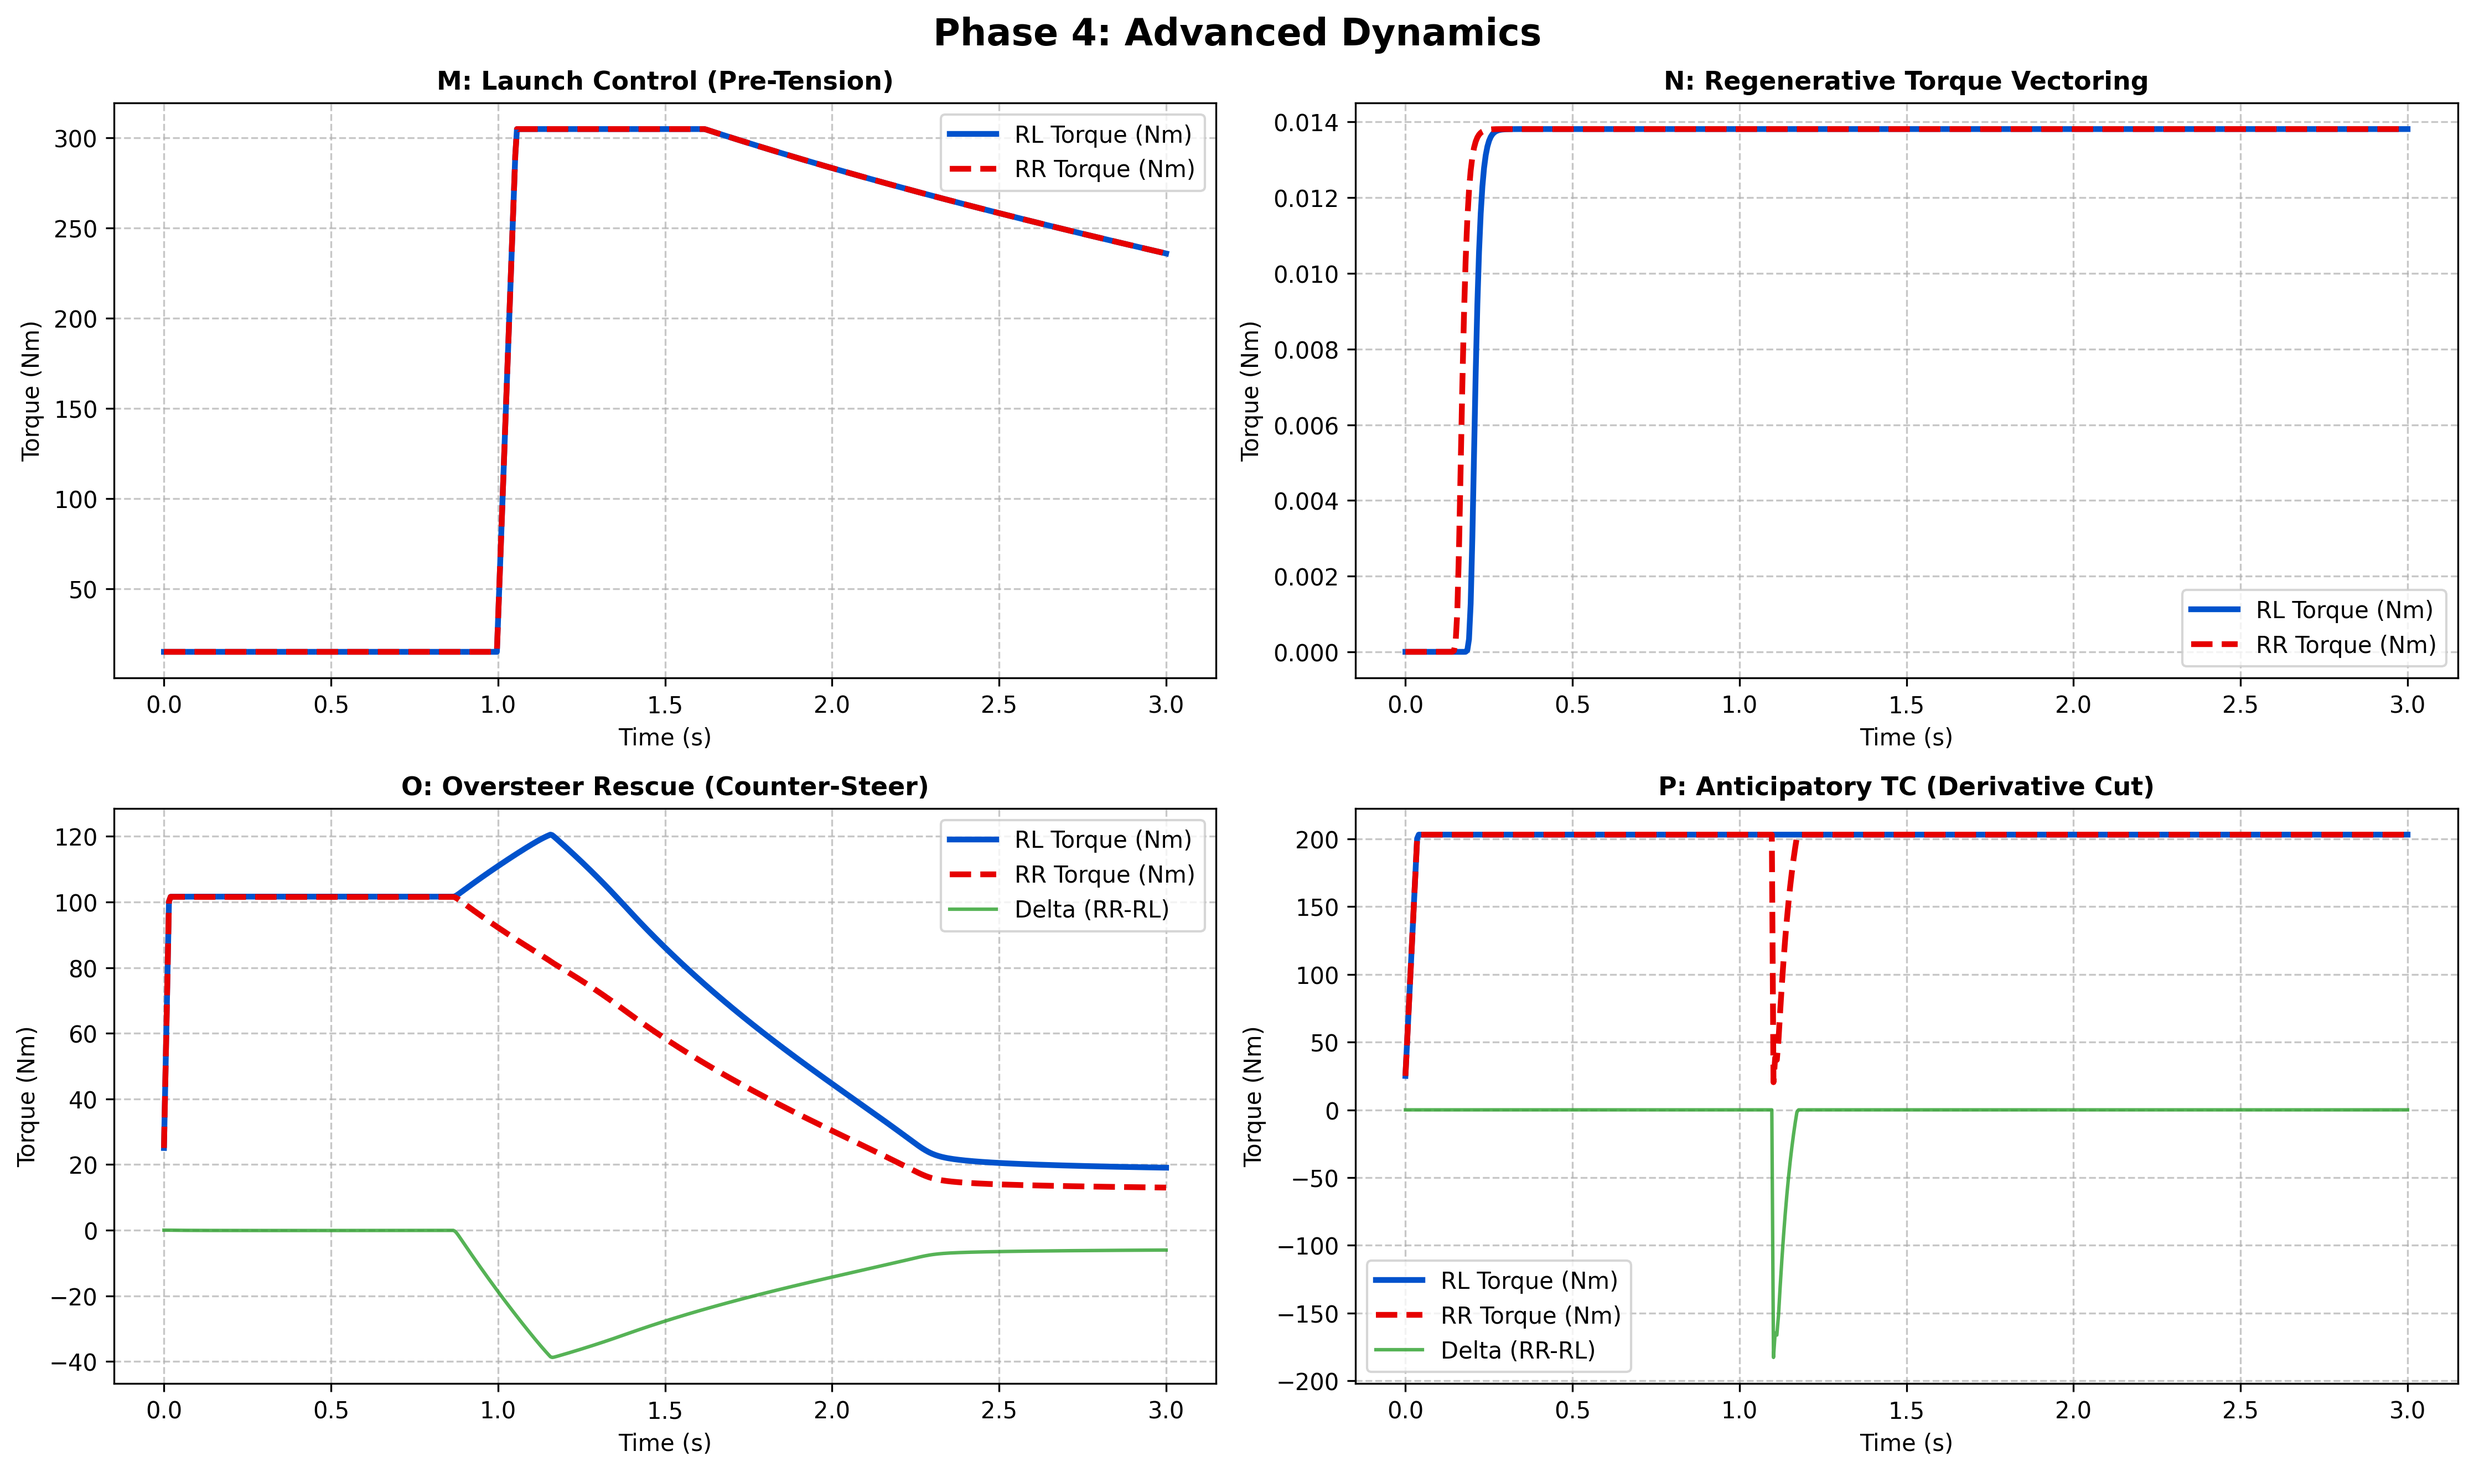
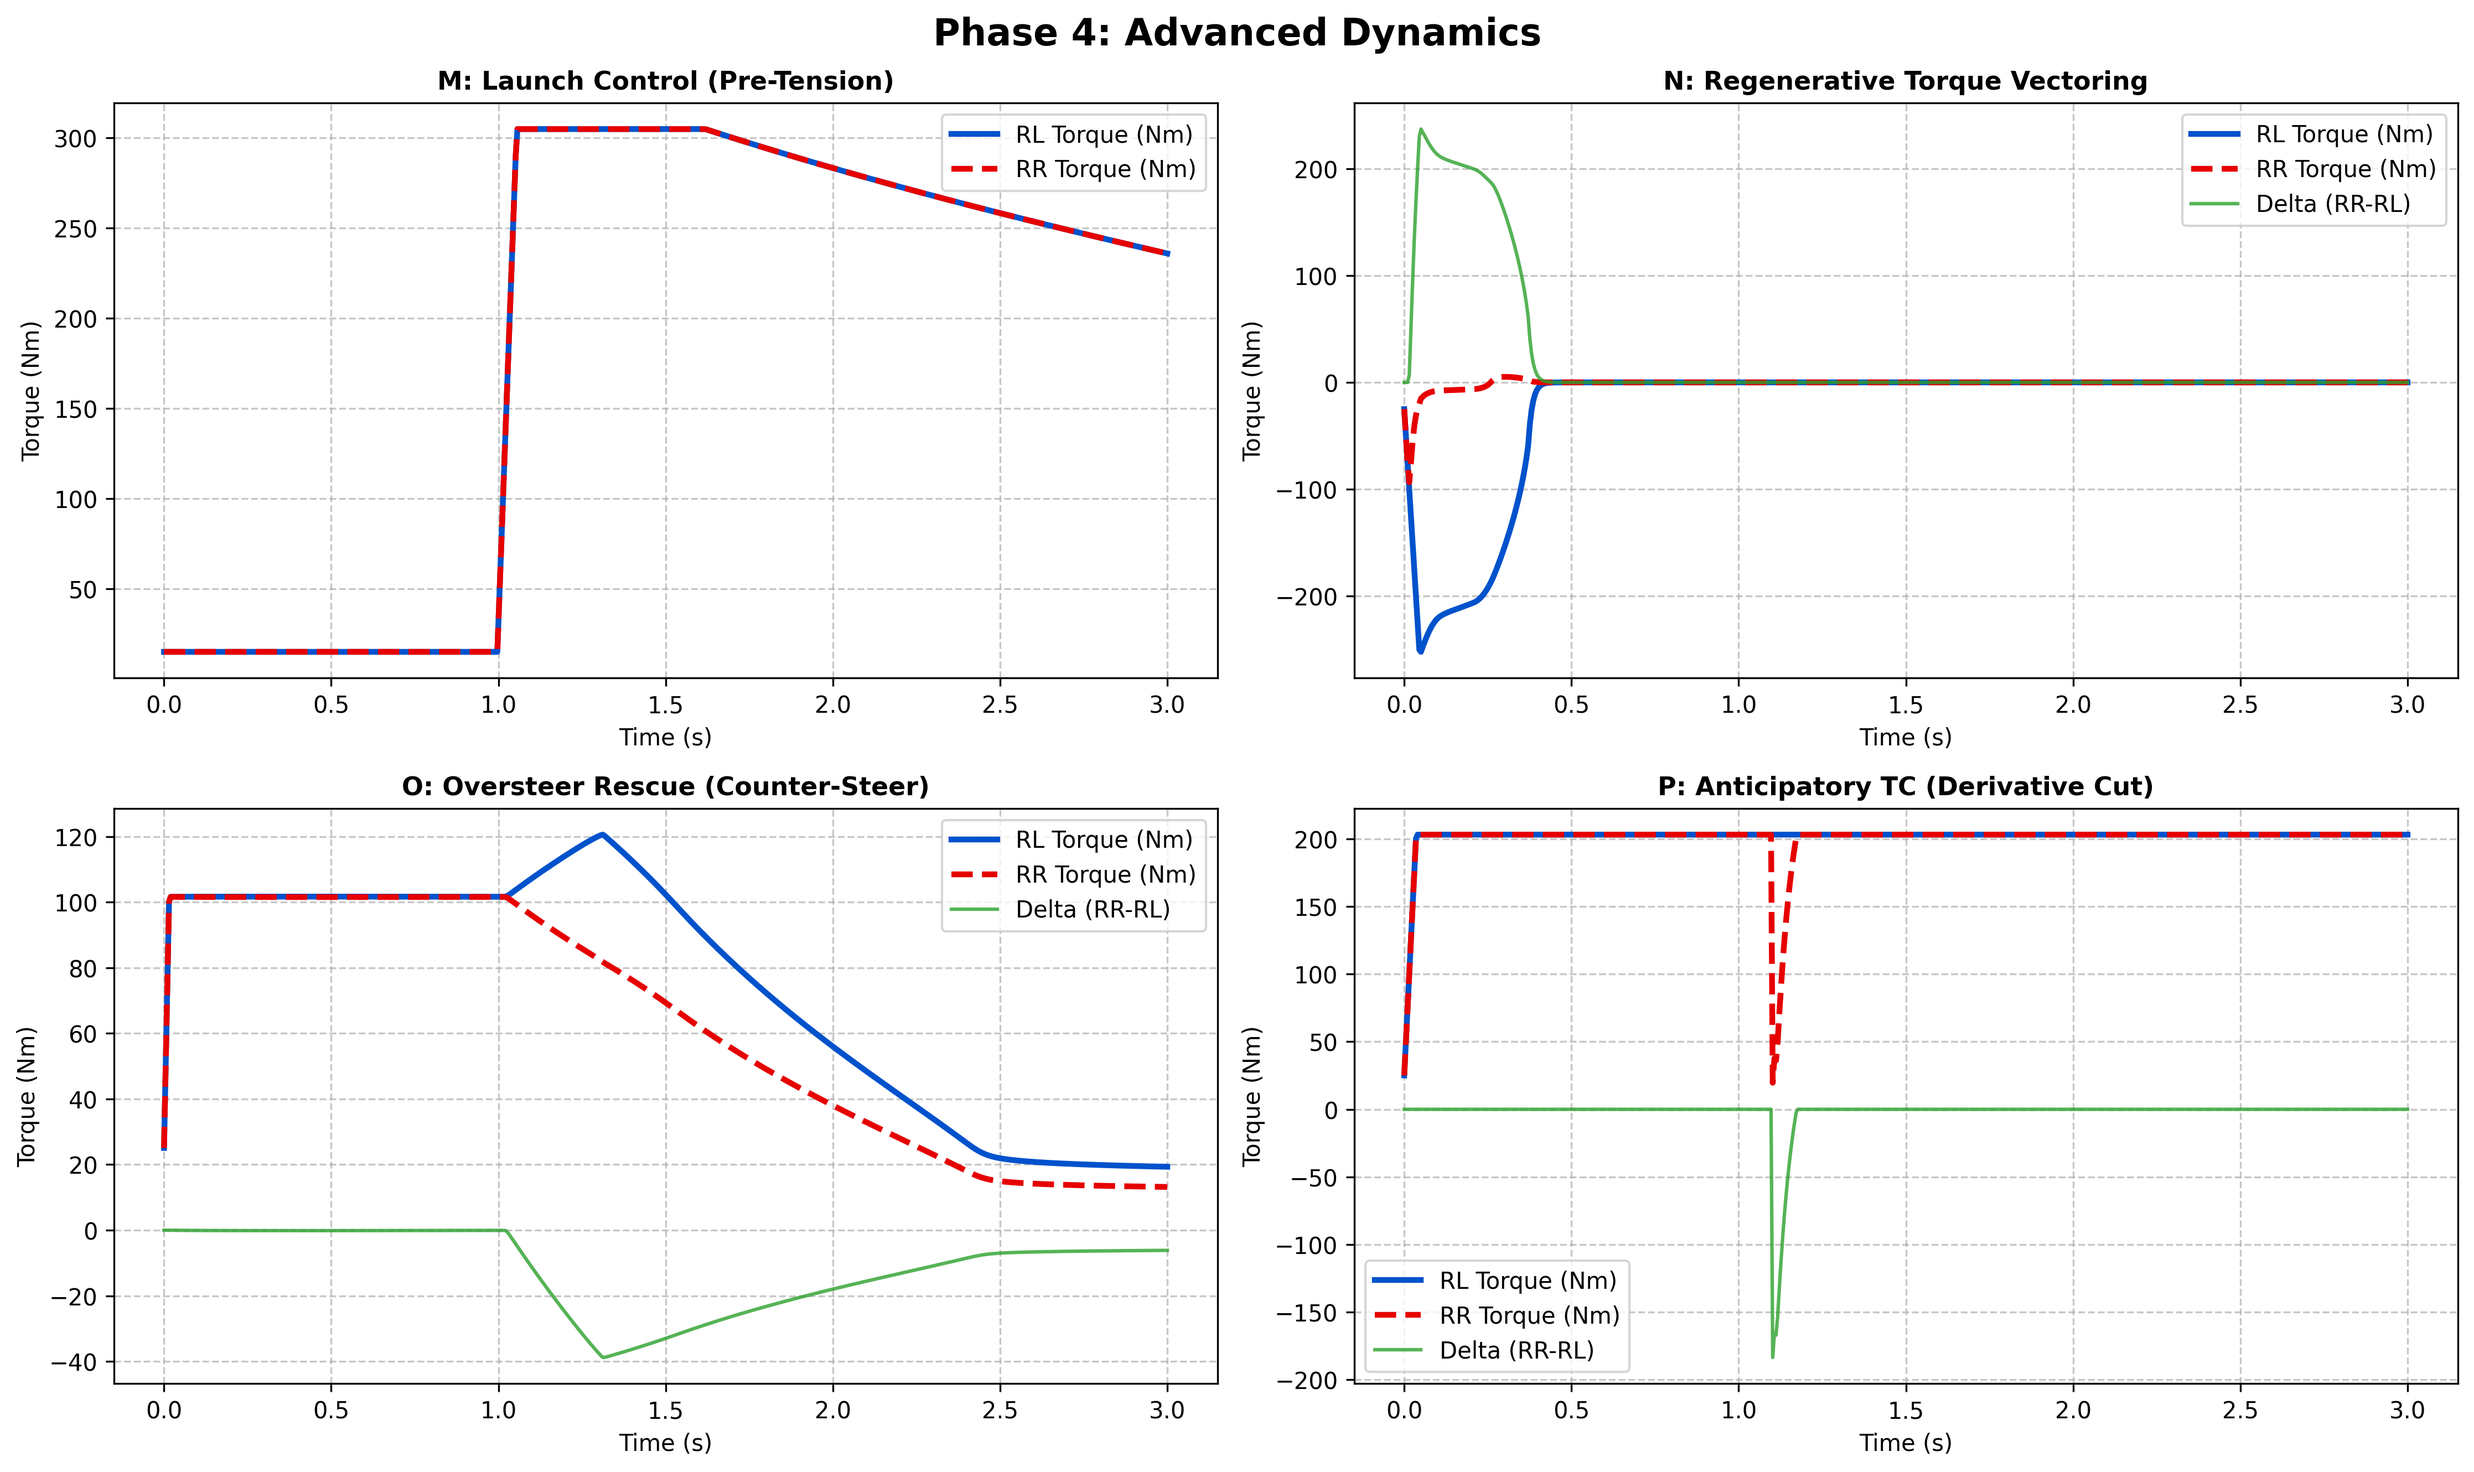
error?

diff --git a/SOFTWARE/TeR_ECU/Libraries/TRQ_VECTORING/src/gp_traction_control.c b/SOFTWARE/TeR_ECU/Libraries/TRQ_VECTORING/src/gp_traction_control.c
@@ -64,8 +64,13 @@ void gp_tc_step(
     fx_wheels[GP_RL] = fx_rl;
     fx_wheels[GP_RR] = fx_rr;
     
-    float mu_rl = fx_rl / GP_MAX(fz[GP_RL], 100.0f);
-    float mu_rr = fx_rr / GP_MAX(fz[GP_RR], 100.0f);
+    // Magnitude-based: mu is a grip-utilization ratio, not directionally
+    // signed. Signed fx/fz clamps every regen (negative fx) sample to
+    // GP_TC_MU_LO regardless of how much tire capacity was actually used,
+    // biasing the surface estimate on every braking event. fabsf makes the
+    // estimator equally informed by drive and regen.
+    float mu_rl = fabsf(fx_rl) / GP_MAX(fz[GP_RL], 100.0f);
+    float mu_rr = fabsf(fx_rr) / GP_MAX(fz[GP_RR], 100.0f);
     float mu_meas[2];
 
     mu_meas[0] = GP_CLAMP(mu_rl, GP_TC_MU_LO, GP_TC_MU_HI);
@@ -93,6 +98,14 @@ void gp_tc_step(
     
     for (int w = 0; w < 2; w++) {
         int i = rear_wheels[w];
+
+        // Capture the TV/regen command's sign BEFORE this function mutates
+        // t_req_out[i]. Everything below operates in magnitude space
+        // projected onto this sign axis, so ONE control law defends against
+        // wheelspin (sign_i > 0, identical to original behavior) and against
+        // regen lock-up (sign_i < 0, new) without duplicating any logic.
+        float sign_i = (t_req_out[i] < 0.0f) ? -1.0f : 1.0f;
+        float mag_in = fabsf(t_req_out[i]);
         
         float kappa_raw = gp_tc_compute_kappa(omega[i], vx);
         
@@ -139,10 +152,17 @@ void gp_tc_step(
                               
         state->theta_prev[i] = state->rls_theta[i];
         
+        // kappa_analytical / kappa_opt are magnitudes (>=0 by construction —
+        // see gp_tc_kappa_star's clamp and the [0.05,0.22] clamps above).
+        // Project BOTH the target and the measured slip onto the commanded
+        // direction (sign_i): this is what gives TC a lock-up guard under
+        // regen that's structurally identical to the wheelspin guard under
+        // drive, instead of a special-cased second control law.
         float kappa_analytical = gp_tc_kappa_star(fz[i], state->mu_surface[w]) * cs_factor;
-        float kappa_star = 0.5f * kappa_analytical + 0.5f * state->kappa_opt[i];
+        float kappa_target_mag = 0.5f * kappa_analytical + 0.5f * state->kappa_opt[i];
+        float kappa_meas_mag = sign_i * state->kappa_filt[i];
 
-        float error = state->kappa_filt[i] - kappa_star; 
+        float error = kappa_meas_mag - kappa_target_mag; 
         
         float raw_integral = state->pi_integral[i] + error * dt * speed_gate;
         state->pi_integral[i] = GP_TC_I_MAX * tanhf(raw_integral / GP_TC_I_MAX); 
@@ -156,13 +176,34 @@ void gp_tc_step(
         state->omega_last_raw[i] = omega[i];
         
         float error_gate = gp_sigmoid(error * 50.0f); 
-        float deriv_kick = 2.0f * (20.0f * gp_softplus((omega_dot - 250.0f) * 0.05f));
+        // Curb-strike / lock-up derivative kick, mirrored: the original term
+        // only caught a sudden POSITIVE omega spike (wheel launched off a
+        // curb -> wheelspin risk). Under regen the dangerous spike is a
+        // sudden NEGATIVE omega_dot (wheel snapping toward lock). sign_i
+        // selects which physical direction is being commanded this tick, so
+        // only the relevant branch can ever fire for a given wheel.
+        float deriv_kick_pos = 20.0f * gp_softplus((omega_dot - 250.0f) * 0.05f);
+        float deriv_kick_neg = 20.0f * gp_softplus((-omega_dot - 250.0f) * 0.05f);
+        float deriv_kick = 2.0f * ((sign_i > 0.0f) ? deriv_kick_pos : deriv_kick_neg);
 
         pi_out -= deriv_kick * error_gate; 
         
         float reduction = speed_gate * gp_softplus(pi_out * GP_TC_CLAMP_BETA) / GP_TC_CLAMP_BETA;
-        float t_cmd = t_req_out[i] - reduction;
-        
-        t_req_out[i] = gp_softplus(t_cmd * GP_TC_CLAMP_BETA) / GP_TC_CLAMP_BETA;
+
+        // Magnitude-space actuation gate: TC may only ever shrink the
+        // MAGNITUDE of the commanded torque toward zero — never invert its
+        // sign, never amplify it — for EITHER drive or regen. The original
+        // single-sided gp_softplus(t_cmd*BETA)/BETA implicitly assumed
+        // t_req_out[i] >= 0 and collapsed ANY negative (regen) command to
+        // ~0. Operating in |magnitude| and reapplying sign_i at the end
+        // reproduces the original behavior bit-for-bit when sign_i > 0 and
+        // correctly extends it to regen when sign_i < 0.
+        float mag_cmd = mag_in - reduction;
+        float mag_out = gp_softplus(mag_cmd * GP_TC_CLAMP_BETA) / GP_TC_CLAMP_BETA;
+
+        // Traction control may only maintain or reduce torque magnitude, never amplify it
+        mag_out = GP_MIN(mag_out, mag_in);
+
+        t_req_out[i] = sign_i * mag_out;
     }
 }

diff --git a/SOFTWARE/TeR_ECU/Libraries/TRQ_VECTORING/src/gp_torque_vectoring.c b/SOFTWARE/TeR_ECU/Libraries/TRQ_VECTORING/src/gp_torque_vectoring.c
@@ -248,11 +248,17 @@ void gp_tv_step(
         t_lb[GP_RR] = 0.0f;
     }
 
-    // Escudo de Fricción
+    // Escudo de Fricción (drive side, unchanged)
     float max_sum = t_ub[GP_RL] + t_ub[GP_RR];
     float req_sum = fx_driver * GP_R_WHEEL;
     if (req_sum > max_sum) {
         fx_driver = max_sum / GP_R_WHEEL;
+    }
+    // Escudo de Fricción (regen side, mirrored): pre-clip fx_driver so the
+    // QP's nominal warmstart is itself physically achievable under braking.
+    float min_sum = t_lb[GP_RL] + t_lb[GP_RR];
+    if (req_sum < min_sum) {
+        fx_driver = min_sum / GP_R_WHEEL;
     }
 
     float t_nominal[4];
